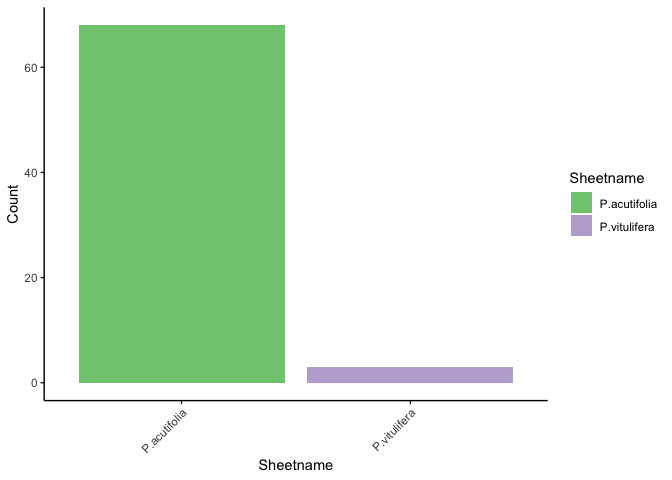
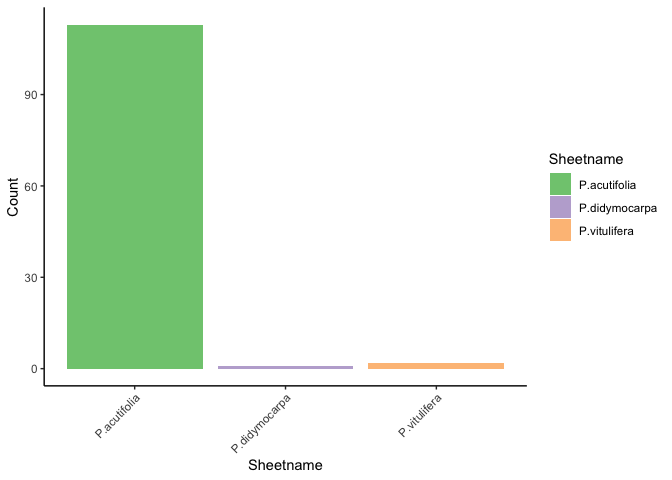
Begin package rename `Thesis` -> `thesis`
- Update namespace in `data-raw/*`

diff --git a/data-raw/README.md b/data-raw/README.md
@@ -6,62 +6,51 @@ data-raw README
 Records of voucher specimens on loan from lending herbaria (RM, NY, MO,
 F, ISTC, MONTU, MONT, RSA-POM, UC, UTC, GH, US, CAS, IDS) were compiled
 into an excel file,
-[`specimens.xlsx`](https://github.com/jasonratcliff/Thesis/blob/master/inst/extdata/specimens.xlsx).
+[`specimens.xlsx`](https://github.com/jasonratcliff/thesis/blob/master/inst/extdata/specimens.xlsx).
 Data recorded from vouchers include locality, identification history,
 collector, collection number, date, institution, geographic coordinates,
 elevation, any ecological descriptions, and measurements of continuous
-and discrete specimen traits. In total, 1707 unique collections were
+and discrete specimen traits. In total, 1722 unique collections were
 reviewed.
 
 ``` r
 # Path to installed file with specimens annotations.
-system.file("extdata/specimens.xlsx", package = "Thesis") %>%
+system.file("extdata/specimens.xlsx", package = "thesis") %>%
   stringr::str_extract(string = ., pattern = "extdata.+")
 ```
 
     ## [1] "extdata/specimens.xlsx"
 
 The
-[`herbarium_specimens.R`](https://github.com/jasonratcliff/Thesis/blob/master/data-raw/specimens/herbarium_specimens.R)
+[`herbarium_specimens.R`](https://github.com/jasonratcliff/thesis/blob/master/data-raw/specimens/herbarium_specimens.R)
 script creates an *.Rda* from `specimens.xlsx`, formatting specimen data
 for downstream phylogenetic, distribution, and morphological analyses to
-define a tibble `herbarium_specimens` in the `Thesis` namespace.
+define a tibble `herbarium_specimens` in the `thesis` namespace.
 
 ``` r
-Thesis::herbarium_specimens
+thesis::herbarium_specimens
 ```
 
-    ## # A tibble: 1,712 x 66
-    ##    excel_sheet prior_id prior_1 prior_2 prior_3 prior_4 Taxon Taxon_a_posteri…
-    ##    <chr>       <chr>    <chr>   <chr>   <chr>   <chr>   <chr> <chr>           
-    ##  1 P. Remaini… Physari… Physar… <NA>    <NA>    <NA>    Phys… <NA>            
-    ##  2 P. Remaini… Physari… Physar… Physar… Physar… Physar… Phys… <NA>            
-    ##  3 P. Remaini… Physari… Physar… Physar… Physar… Physar… Phys… <NA>            
-    ##  4 P. Remaini… Physari… Physar… <NA>    <NA>    <NA>    Phys… <NA>            
-    ##  5 P. Remaini… Physari… Physar… Physar… <NA>    <NA>    Phys… <NA>            
-    ##  6 P. Remaini… Physari… Physar… Physar… <NA>    <NA>    Phys… <NA>            
-    ##  7 P. Remaini… Physari… Physar… <NA>    <NA>    <NA>    Phys… <NA>            
-    ##  8 P. Remaini… Physari… Physar… <NA>    <NA>    <NA>    Phys… <NA>            
-    ##  9 P. Remaini… Physari… Physar… <NA>    <NA>    <NA>    Phys… <NA>            
-    ## 10 P. Remaini… Physari… Physar… Physar… <NA>    <NA>    Phys… <NA>            
-    ## # … with 1,702 more rows, and 58 more variables: Collector <chr>,
-    ## #   Collection_Number <chr>, Date <chr>, Date_parsed <date>, Date_md <date>,
-    ## #   Herbarium <chr>, State <chr>, County <chr>, Location <chr>, Latitude <dbl>,
-    ## #   Longitude <dbl>, ID <chr>, App.A <chr>, Imaged <chr>, Elev_m <chr>,
-    ## #   Elev_ft <chr>, Elev_var <chr>, Elev_raw <chr>, Elev_raw_min <dbl>,
-    ## #   Elev_raw_max <dbl>, TRS1 <chr>, TRS2 <chr>, Rosulate <chr>, Caudex <chr>,
-    ## #   Pubescence <chr>, Basal_leaf_trichomes <chr>, Fruit_trichomes <chr>,
-    ## #   Stem_count <chr>, Stem_shape <chr>, Stem_length_dm <chr>, Petiole <chr>,
-    ## #   Basal_leaf_length_cm <chr>, Basal_leaf_shape <chr>,
-    ## #   Basal_leaf_margins <chr>, Cauline_leaf_length_mm <chr>,
-    ## #   Cauline_leaf_shape <chr>, Cauline_leaf_margins <chr>, Racemes <chr>,
-    ## #   Pedicel_shape <chr>, Pedicels_secund <chr>, Sepal_length_mm <chr>,
-    ## #   Sepal_shape <chr>, Petal_color <chr>, Petal_length_mm <chr>,
-    ## #   Petal_shape <chr>, Style_length_mm <chr>, Mature_fruit_length_mm <chr>,
-    ## #   Mature_fruit_width_mm <chr>, Fruit <chr>, Mature_fruit_apices <chr>,
-    ## #   Replum_pubescence <chr>, Inner_valve_pubescence <chr>, Ovule_number <chr>,
-    ## #   Replum_shape <chr>, Seed_color <chr>, Seed_shape <chr>,
-    ## #   Mature_seed_length_mm <chr>, Chromosomes <chr>
+    ## # A tibble: 1,727 × 66
+    ##    excel_sheet   prior_id      prior_1 prior_2 prior_3
+    ##    <chr>         <chr>         <chr>   <chr>   <chr>  
+    ##  1 P. acutifolia Physaria did… Physar… Physar… <NA>   
+    ##  2 P. acutifolia Physaria acu… Physar… Physar… <NA>   
+    ##  3 P. acutifolia Physaria did… Physar… <NA>    <NA>   
+    ##  4 P. acutifolia Physaria acu… Physar… Physar… <NA>   
+    ##  5 P. acutifolia Physaria did… Physar… <NA>    <NA>   
+    ##  6 P. acutifolia Physaria acu… Physar… <NA>    <NA>   
+    ##  7 P. acutifolia Physaria acu… Physar… Physar… <NA>   
+    ##  8 P. acutifolia Physaria acu… Physar… Physar… Physar…
+    ##  9 P. acutifolia Physaria did… Physar… Physar… <NA>   
+    ## 10 P. acutifolia Physaria bra… Physar… Physar… <NA>   
+    ## # … with 1,717 more rows, and 61 more variables:
+    ## #   prior_4 <chr>, Taxon <chr>,
+    ## #   Taxon_a_posteriori <chr>, Collector <chr>,
+    ## #   Collection_Number <chr>, Date <chr>,
+    ## #   Date_parsed <date>, Date_md <date>,
+    ## #   Herbarium <chr>, State <chr>, County <chr>,
+    ## #   Location <chr>, Longitude <dbl>, …
 
 Briefly, the script does the following:
 
@@ -86,7 +75,7 @@ Briefly, the script does the following:
     -   Combine variables with m / ft. elevation data
     -   Split minimum and maximum values and convert m to ft.
 -   Combine DNA specimen metadata from `specimens/dna_specimens.csv`
-    -   Create *dna\_specimens.Rda* with tibble in the `Thesis`
+    -   Create *dna\_specimens.Rda* with tibble in the `thesis`
         namespace
 
 # DNA Map
@@ -107,7 +96,7 @@ identifications and locations of DNA samples.
 
 Multi-FASTA files for sequenced loci were assembled from sequence
 chromatograms and deposited in the
-[`inst/extdata/FASTA`](https://github.com/jasonratcliff/Thesis/blob/master/inst/extdata/FASTA)
+[`inst/extdata/FASTA`](https://github.com/jasonratcliff/thesis/blob/master/inst/extdata/FASTA)
 subdirectory. Here, `FASTA` headers are formatted with two fields
 `accession` and `locus` following “&gt;.” A single whitespace separates
 the sample accession from the name of the locus, for example:
@@ -118,7 +107,7 @@ indicated in the second field of the `FASTA` headers.
 ``` r
 # Assign list of raw FASTA files from installed external package data.
 list.files(
-  path = system.file("extdata/FASTA", package = "Thesis"),
+  path = system.file("extdata/FASTA", package = "thesis"),
   full.names = TRUE
   ) %>%
   stringr::str_extract(string = ., pattern = "extdata.+")
@@ -138,23 +127,24 @@ subsets for each locus were indexed by the set of specimens sequenced
 for all loci. Untrimmed, single locus `FASTA` files from
 [`inst/extdata/FASTA`]() and `FASTA` files filtered to common specimens
 in
-[`data-raw/sequencing/sequencing/2.subset-fastas`](https://github.com/jasonratcliff/Thesis/tree/master/data-raw/sequencing/2.subset-fastas)
+[`data-raw/sequencing/sequencing/2.subset-fastas`](https://github.com/jasonratcliff/thesis/tree/master/data-raw/sequencing/2.subset-fastas)
 were aligned using MAFFT version 7.306B ([Katoh and Standley
 2013](#ref-Katoh2013)). The G-INS-i alignment ([Katoh et al.
 2005](#ref-Katoh2005)) with iterative refinement and 1PAM / k=2
 nucleotide scoring matrix were set as alignment parameters. Aligned
 `FASTA` files were deposited in the
-[`data-raw/sequencing/3.alignments-single/`](https://github.com/jasonratcliff/Thesis/tree/master/data-raw/sequencing/3.alignments-single)
+[`data-raw/sequencing/3.alignments-single/`](https://github.com/jasonratcliff/thesis/tree/master/data-raw/sequencing/3.alignments-single)
 and
-[`data-raw/sequencing/3.alignments-subset/`](https://github.com/jasonratcliff/Thesis/tree/master/data-raw/sequencing/3.alignments-subset)
+[`data-raw/sequencing/3.alignments-subset/`](https://github.com/jasonratcliff/thesis/tree/master/data-raw/sequencing/3.alignments-subset)
 subdirectories. For the subset of samples with DNA sequence data from
 all three sample loci, a concatenated multi-FASTA file was compiled
 using the
-[`data-raw/sequencing/fasta-concat.R`](https://github.com/jasonratcliff/Thesis/blob/master/data-raw/sequencing/fasta-concat.R)
+[`data-raw/sequencing/fasta-concat.R`](https://github.com/jasonratcliff/thesis/blob/master/data-raw/sequencing/fasta-concat.R)
 Rscript, written to
-[`data-raw/sequencing/3.multi-locus/`](https://github.com/jasonratcliff/Thesis/tree/master/data-raw/sequencing/3.multi-locus).
+[`data-raw/sequencing/3.multi-locus/`](https://github.com/jasonratcliff/thesis/tree/master/data-raw/sequencing/3.multi-locus).
 
-![](README_files/figure-gfm/diagFASTA-1.png)<!-- -->
+<div id="htmlwidget-ea1fbfc004dcf4dd7387" style="width:672px;height:480px;" class="DiagrammeR html-widget"></div>
+<script type="application/json" data-for="htmlwidget-ea1fbfc004dcf4dd7387">{"x":{"diagram":"\ngraph TD\n  %% Sequencing Workflow\n  S1[\"inst/extdata/FASTA\"]-->S2(fasta-subsets.R)\n  S2-->S3[\"sequencing/2.subset-fastas/\"]\n  S1-->S4{MAAFT}\n  S3-->S4\n  S4-->S5[\"sequencing/3.alignments-single/\"]\n  S4-->S6[\"sequencing/3.alignments-subset/\"]\n  S6-->S7(fasta-concat.R)\n  S7-->S8[\"sequencing/3.multi-locus/\"]\n"},"evals":[],"jsHooks":[]}</script>
 
 ## MEGA / MrBayes
 
@@ -165,7 +155,7 @@ using MEGA version 10.1.8 ([Kumar et al. 2018](#ref-Kumar2018);
 were calculated by p-distance treating gaps as pairwise deletions.
 Distance matrices and FASTA (*.fas*) files with combined headers for
 duplicate DNA sequences were deposited in
-[Bayes/MEGA/](https://github.com/jasonratcliff/Thesis/tree/master/data-raw/Bayes/MEGA).
+[Bayes/MEGA/](https://github.com/jasonratcliff/thesis/tree/master/data-raw/Bayes/MEGA).
 Non-identical single locus (rITS, *rps*, *ycf1*) and concatenated
 multi-locus FASTA files were used as input for jModelTest ([Posada
 2008](#ref-Posada2008)) to assess evolutionary model fit. Lastly,
@@ -174,9 +164,10 @@ alignment gaps were coded using 2matrix ([Salinas and Little
 coding” as described by [Simmons and Ochoterena](#ref-Simmons2000)
 ([2000](#ref-Simmons2000)). Partitioned NEXUS (*.nex*) files with
 defined command blocks were deposited in
-[Bayes/Runs/](https://github.com/jasonratcliff/Thesis/tree/master/data-raw/Bayes/Runs).
+[Bayes/Runs/](https://github.com/jasonratcliff/thesis/tree/master/data-raw/Bayes/Runs).
 
-![](README_files/figure-gfm/diagMEGA-1.png)<!-- -->
+<div id="htmlwidget-6f358baac00b048de77f" style="width:672px;height:480px;" class="DiagrammeR html-widget"></div>
+<script type="application/json" data-for="htmlwidget-6f358baac00b048de77f">{"x":{"diagram":"\ngraph TD\n  S1[\"sequencing/3.alignments-single/\"]\n  S2[\"sequencing/3.multi-locus/\"]\n  %% MEGA files\n  S1-->D1{MEGA}\n  S2-->D1\n  D1-->D2(Distance matrices)\n  D1-->D3(De-duplicated multi-FASTAs)\n  D2-->D4[\"Bayes/MEGA/\"]\n  D3-->D4\n  %% jModelTest\n  D4-->J1{jModelTest}\n  J1-->J2[\"Bayes/jmodeltest/\"]\n  %% 2Matrix / Bayes Nexus\n  D4-->M1{2Matrix}\n  M1-->M2[\"Bayes/Runs/\"]\n  M2-->M4{MrBayes}\n  J2-->M4\n"},"evals":[],"jsHooks":[]}</script>
 
 ## BEAST
 
@@ -187,7 +178,8 @@ all three loci (rITS, *rps*, *ycf1*), alignments were imported into
 `BEAUti` v2.6.3 ([Bouckaert et al. 2019](#ref-Bouckaert2019)) to
 configure BEAST *.xml* files.
 
-![](README_files/figure-gfm/BEAUTi-1.png)<!-- -->
+<div id="htmlwidget-0f7ca1b0bc94ffbe207a" style="width:672px;height:480px;" class="DiagrammeR html-widget"></div>
+<script type="application/json" data-for="htmlwidget-0f7ca1b0bc94ffbe207a">{"x":{"diagram":"\ngraph TD\n  S1[\"sequencing/3.alignments-subset/\"]\n  S1-->B1(data-raw/BEAST/beast.R)\n  B1-->B2[\"BEAST/NEXUS/\"]\n  B2-->B3(BEAUTi)\n  B3-->B4(data-raw/BEAST/*.xml)\n"},"evals":[],"jsHooks":[]}</script>
 
 BEAST v2.6.3 ([Bouckaert et al. 2019](#ref-Bouckaert2019)) results from
 3 independed runs of 50M states were combined with `LogCombiner` v2.6.3
@@ -196,7 +188,8 @@ was summarized using `TreeAnnotator` v2.6.3 (*ibid.*) and visualized
 using the `ggplot2` ([Wickham 2020](#ref-R-ggplot2)) extension `ggtree`
 ([Yu et al. 2017](#ref-R-ggtree)).
 
-![](README_files/figure-gfm/BEAST-1.png)<!-- -->
+<div id="htmlwidget-a86a7b562d0e36f2d1b7" style="width:672px;height:480px;" class="DiagrammeR html-widget"></div>
+<script type="application/json" data-for="htmlwidget-a86a7b562d0e36f2d1b7">{"x":{"diagram":"\ngraph TD\n  B1(data-raw/BEAST/*.xml)-->B2\n  subgraph \"\"\n    B2[BEAST2]\n    B2-->B3[LogCombiner]\n    B3-->B4[TreeAnnotator]\n  end\n  B4-->B5(/inst/extdata/BEAST/*.mcc)\n  B5-->B6[R `ggtree`]\n"},"evals":[],"jsHooks":[]}</script>
 
 ## Evolutionary Models
 

diff --git a/data-raw/appendix/README.md b/data-raw/appendix/README.md
@@ -1,21 +1,19 @@
 Appendix README
 ================
 
-``` r
-library(magrittr)
-library(ggplot2)
-```
-
 To facilitate formatting appendix files for specimens reviewed, an
 Rscript was used to read in a column subset from each sheetname in the
 `specimens.xlsx` external data from
-[`Thesis`](https://github.com/jasonratcliff/Thesis). A *.tsv* file for
+[`thesis`](https://github.com/jasonratcliff/thesis). A *.tsv* file for
 each sheetnem in `specimens.xlsx` is written from entries without
 appendix completion (missing values in variable `App.A`).
 
 ``` bash
 Rscript appendix_script.R
 ```
+
+    ## Warning message:
+    ## One or more parsing issues, see `problems()` for details
 
 <details>
 <summary>
@@ -35,7 +33,12 @@ missing_appendixes <- purrr::map_dfr(
                          x = appendix)
       )
   })
+```
 
+    ## Warning: One or more parsing issues, see `problems()`
+    ## for details
+
+``` r
 appendix_counts <- ggplot(data = missing_appendixes) +
   geom_bar(aes(x = sheetname, fill = sheetname)) +
   scale_fill_brewer("Sheetname", type = "qual") +
@@ -61,35 +64,17 @@ Summarized Dates
 <p>
 
 ``` r
-library(dplyr)
-```
-
-    ## 
-    ## Attaching package: 'dplyr'
-
-    ## The following objects are masked from 'package:stats':
-    ## 
-    ##     filter, lag
-
-    ## The following objects are masked from 'package:base':
-    ## 
-    ##     intersect, setdiff, setequal, union
-
-``` r
-library(ggplot2)
-library(Thesis)
-
-id_dates <- herbarium_specimens %>%
-  select(ID) %>%
-  mutate(
+id_dates <- thesis::herbarium_specimens %>%
+  dplyr::select(ID) %>%
+  dplyr::mutate(
     Date = stringr::str_extract(
       string = .data$ID,
       pattern = "[0-9]{1,2}/[0-9]{1,2}/[0-9]{2}"
     ) %>% as.Date(x = ., format = "%m/%d/%y")
   ) %>%
-  filter(!is.na(Date)) %>%
-  group_by(Date) %>%
-  add_count(name = "Count")
+  dplyr::filter(!is.na(Date)) %>%
+  dplyr::group_by(Date) %>%
+  dplyr::add_count(name = "Count")
 
 id_plot <- ggplot(data = id_dates) +
   geom_count(aes(x = Date, y = Count, color = Date)) +
@@ -199,5 +184,3 @@ by:
 
     ##   Searching for filename string: 'MO-3093900'
     ##   /Physaria/Wyoming/Big Horn, WY/Unknown Locality/Hayden_sn_MO-3093900_v1.tiff
-
-    ## [1] "appendix_counts"

diff --git a/NEWS.md b/NEWS.md
@@ -1,4 +1,6 @@
-# Thesis 0.2.3.9009
+# thesis 0.2.3.9010
+
+* Rename package from `Thesis` to lowercase `thesis`.
 
 * New R6 superclass `Specimen` data structure consolidates specimen record
   tibbles with previously exported functions for subsetting and theme options.
@@ -42,7 +44,7 @@
   - `spl_bbox()`
   - `spl_legend()`
 
-# Thesis 0.2.3
+# thesis 0.2.3
 
 * New `parse_taxa()` creates plotmath expressions for `ggplot2` parsed labels.
     - The following functions are refactored to generate expressions:
@@ -72,7 +74,7 @@
 * Update `Makefile` target dependencies for building specimen `.rda`
 
 * `LaTeX` Edits
-    - Add Thesis abstract
+    - Add thesis abstract
     - Proof specimen appendices
     - Remove window margins
 
@@ -81,7 +83,7 @@
 
 <!-- TODO: See v0.2.2.9000-->
 
-# Thesis 0.2.2
+# thesis 0.2.2
 
 * Add `ggrepel` function wrappers to specify label position nudges leveraging
   `rlang` expression handling:
@@ -93,7 +95,7 @@
 
 * Add `pkgdown` infrastructure
 
-# Thesis 0.2.1
+# thesis 0.2.1
 
 * Medicine Bow and CO Front Range satellite map proofs.
 
@@ -110,7 +112,7 @@
 
 * Fix join of DNA specimens by specifying collection coordinate variables.
 
-# Thesis 0.2.0
+# thesis 0.2.0
 
 * Merge `ThesisPackage` into single `Thesis` R package repository.
     - Compartmentalize `bookdown` manuscript and `xaringan` slide rendering.

diff --git a/data-raw/descriptions/README.md b/data-raw/descriptions/README.md
@@ -5,7 +5,7 @@ The first approach to generating specimen descriptions from a template
 *.Rmd* file involved the use of R markdown [parameterized
 reports](https://bookdown.org/yihui/rmarkdown/parameterized-reports.html)
 with species values used to filter data from
-[`Thesis`](https://github.com/jasonratcliff/Thesis).
+[`thesis`](https://github.com/jasonratcliff/thesis).
 However, the reports are rendered as various [output
 formats](https://rmarkdown.rstudio.com/lesson-9.html) which limited the
 use of [`bookdown`](https://bookdown.org/yihui/bookdown/) for rendering
